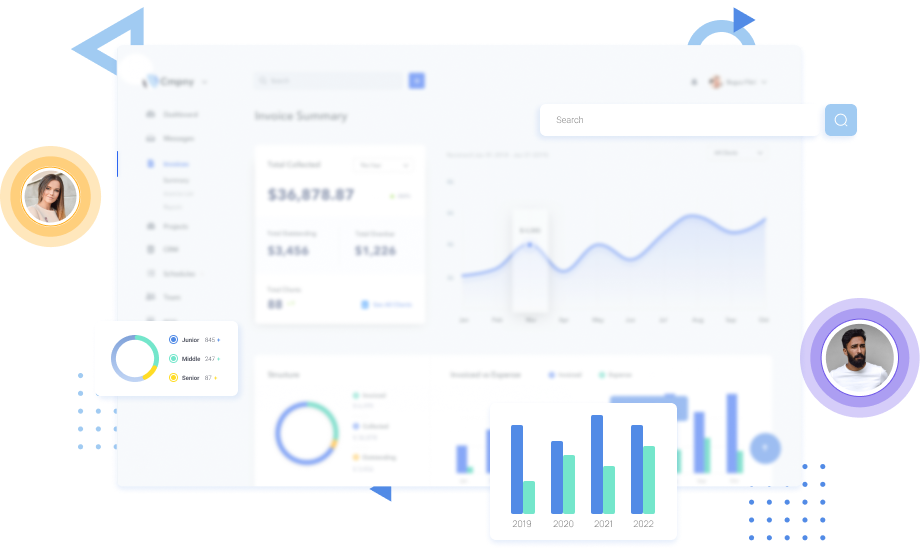
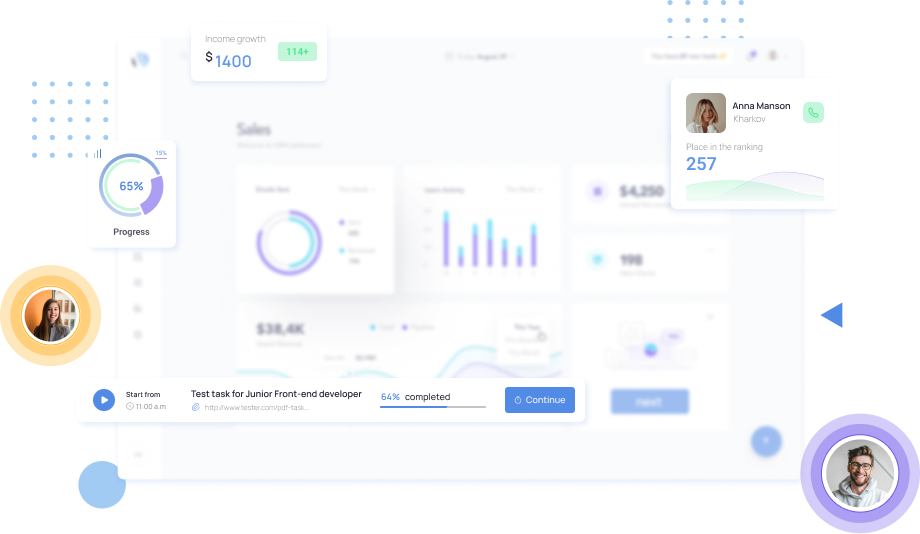
add new windows and css-animation on windows

diff --git a/src/components/view/Employer.vue b/src/components/view/Employer.vue
@@ -24,10 +24,15 @@
             </div>
             <div class="header__animation">
               <div class="header__soonimage d-none d-md-block">
+                <div class = "count">
+                  <div class = "circles" id = "n1"></div>
+                  <div class = "circles" id = "n2"></div>
+                  <div class = "circles" id = "n3"></div>
+                </div>
                 <picture>
-                  <source :srcset="require('../../assets/images/main_image.webp')" type="image/webp">
-                  <source :srcset="require('../../assets/images/main_image.png')" type="image/jpeg">
-                  <img width="920" height="534" :src="require('../../assets/images/main_image.png')" alt="soon image">
+                  <source :srcset="require('../../assets/images/main_image_employer.webp')" type="image/webp">
+                  <source :srcset="require('../../assets/images/main_image_employer.png')" type="image/jpeg">
+                  <img width="920" height="534" :src="require('../../assets/images/main_image_employer.png')" alt="soon image">
                 </picture>
               </div>
             </div>
@@ -149,34 +154,29 @@ export default {
     accordeonImage() {
       return [
         {
-            webpSourse: require("@/assets/images/content/webp/image_4.webp"),
-            pngSourse: require("@/assets/images/content/image_4.png"),
-            image: require("@/assets/images/content/image_4.png"),
+            webpSourse: require("@/assets/images/content/webp/employer_slider_1.webp"),
+            pngSourse: require("@/assets/images/content/employer_slider_1.png"),
+            image: require("@/assets/images/content/employer_slider_1.png"),
         },
         {
-            webpSourse: require("@/assets/images/content/webp/image_4.webp"),
-            pngSourse: require("@/assets/images/content/image_4.png"),
-            image: require("@/assets/images/content/image_4.png"),
+            webpSourse: require("@/assets/images/content/webp/employer_slider_2.webp"),
+            pngSourse: require("@/assets/images/content/employer_slider_2.png"),
+            image: require("@/assets/images/content/employer_slider_2.png"),
         },
         {
-            webpSourse: require("@/assets/images/content/webp/image_4.webp"),
-            pngSourse: require("@/assets/images/content/image_4.png"),
-            image: require("@/assets/images/content/image_4.png"),
+            webpSourse: require("@/assets/images/content/webp/employer_slider_3.webp"),
+            pngSourse: require("@/assets/images/content/employer_slider_3.png"),
+            image: require("@/assets/images/content/employer_slider_3.png"),
         },
         {
-            webpSourse: require("@/assets/images/content/webp/image_4.webp"),
-            pngSourse: require("@/assets/images/content/image_4.png"),
-            image: require("@/assets/images/content/image_4.png"),
+            webpSourse: require("@/assets/images/content/webp/employer_slider_4.webp"),
+            pngSourse: require("@/assets/images/content/employer_slider_4.png"),
+            image: require("@/assets/images/content/employer_slider_4.png"),
         },
         {
-            webpSourse: require("@/assets/images/content/webp/image_4.webp"),
-            pngSourse: require("@/assets/images/content/image_4.png"),
-            image: require("@/assets/images/content/image_4.png"),
-        },
-        {
-            webpSourse: require("@/assets/images/content/webp/image_4.webp"),
-            pngSourse: require("@/assets/images/content/image_4.png"),
-            image: require("@/assets/images/content/image_4.png"),
+            webpSourse: require("@/assets/images/content/webp/employer_slider_5.webp"),
+            pngSourse: require("@/assets/images/content/employer_slider_5.png"),
+            image: require("@/assets/images/content/employer_slider_5.png"),
         },
       ]
     },
@@ -185,37 +185,38 @@ export default {
         {
           title: this.$t('accordionSubTitleA'),
           body: this.$t('accordionSubTxtA'),
-          webpSourse: require("@/assets/images/content/webp/image_4.webp"),
-          pngSourse: require("@/assets/images/content/image_4.png"),
-          image: require("@/assets/images/content/image_4.png"),
+          webpSourse: require("@/assets/images/content/webp/employer_slider_1.webp"),
+          pngSourse: require("@/assets/images/content/employer_slider_1.png"),
+          image: require("@/assets/images/content/employer_slider_1.png"),
         },
         {
           title: this.$t('accordionSubTitleB'),
           body: this.$t('accordionSubTxtB'),
-          webpSourse: require("@/assets/images/content/webp/image_4.webp"),
-          pngSourse: require("@/assets/images/content/image_4.png"),
-          image: require("@/assets/images/content/image_4.png"),
+          webpSourse: require("@/assets/images/content/webp/employer_slider_2.webp"),
+          pngSourse: require("@/assets/images/content/employer_slider_2.png"),
+          image: require("@/assets/images/content/employer_slider_2.png"),
         },
         {
           title: this.$t('accordionSubTitleC'),
           body: this.$t('accordionSubTxtC'),
-          webpSourse: require("@/assets/images/content/webp/image_4.webp"),
-          pngSourse: require("@/assets/images/content/image_4.png"),
-          image: require("@/assets/images/content/image_4.png"),
+          webpSourse: require("@/assets/images/content/webp/employer_slider_3.webp"),
+          pngSourse: require("@/assets/images/content/employer_slider_3.png"),
+          image: require("@/assets/images/content/employer_slider_3.png"),
         },
         {
           title: this.$t('accordionSubTitleD'),
           body: this.$t('accordionSubTxtD'),
-          webpSourse: require("@/assets/images/content/webp/image_4.webp"),
-          pngSourse: require("@/assets/images/content/image_4.png"),
-          image: require("@/assets/images/content/image_4.png"),
+          webpSourse: require("@/assets/images/content/webp/employer_slider_4.webp"),
+          pngSourse: require("@/assets/images/content/employer_slider_4.png"),
+          image: require("@/assets/images/content/employer_slider_4.png"),
         },
         {
           title: this.$t('accordionSubTitleE'),
           body: this.$t('accordionSubTxtE'),
-          webpSourse: require("@/assets/images/content/webp/image_4.webp"),
-          pngSourse: require("@/assets/images/content/image_4.png"),
-          image: require("@/assets/images/content/image_4.png"),
+          webpSourse: require("@/assets/images/content/webp/employer_slider_5.webp"),
+          pngSourse: require("@/assets/images/content/employer_slider_5.png"),
+          image: require("@/assets/images/content/employer_slider_5.png"),
+          class: 'hidden'
         }
       ]
     },

diff --git a/src/components/view/Applicant.vue b/src/components/view/Applicant.vue
@@ -149,34 +149,29 @@ export default {
 	accordeonImage() {
       return [
 		{
-            webpSourse: require("@/assets/images/content/webp/image_4.webp"),
-            pngSourse: require("@/assets/images/content/image_4.png"),
-            image: require("@/assets/images/content/image_4.png"),
+            webpSourse: require("@/assets/images/content/webp/slider_1.webp"),
+            pngSourse: require("@/assets/images/content/slider_1.png"),
+            image: require("@/assets/images/content/slider_1.png"),
         },
         {
-            webpSourse: require("@/assets/images/content/webp/image_4.webp"),
-            pngSourse: require("@/assets/images/content/image_4.png"),
-            image: require("@/assets/images/content/image_4.png"),
+            webpSourse: require("@/assets/images/content/webp/slider_2.webp"),
+            pngSourse: require("@/assets/images/content/slider_2.png"),
+            image: require("@/assets/images/content/slider_2.png"),
         },
         {
-            webpSourse: require("@/assets/images/content/webp/image_4.webp"),
-            pngSourse: require("@/assets/images/content/image_4.png"),
-            image: require("@/assets/images/content/image_4.png"),
+            webpSourse: require("@/assets/images/content/webp/slider_3.webp"),
+            pngSourse: require("@/assets/images/content/slider_3.png"),
+            image: require("@/assets/images/content/slider_3.png"),
         },
         {
-            webpSourse: require("@/assets/images/content/webp/image_4.webp"),
-            pngSourse: require("@/assets/images/content/image_4.png"),
-            image: require("@/assets/images/content/image_4.png"),
+            webpSourse: require("@/assets/images/content/webp/slider_4.webp"),
+            pngSourse: require("@/assets/images/content/slider_4.png"),
+            image: require("@/assets/images/content/slider_4.png"),
         },
         {
-            webpSourse: require("@/assets/images/content/webp/image_4.webp"),
-            pngSourse: require("@/assets/images/content/image_4.png"),
-            image: require("@/assets/images/content/image_4.png"),
-        },
-        {
-            webpSourse: require("@/assets/images/content/webp/image_4.webp"),
-            pngSourse: require("@/assets/images/content/image_4.png"),
-            image: require("@/assets/images/content/image_4.png"),
+            webpSourse: require("@/assets/images/content/webp/slider_5.webp"),
+            pngSourse: require("@/assets/images/content/slider_5.png"),
+            image: require("@/assets/images/content/slider_5.png"),
         },
       ]
 	},
@@ -185,37 +180,38 @@ export default {
         {
           title: this.$t('applicationAccordionSubTitleA'),
           body: this.$t('applicationAccordionSubTxtA'),
-          webpSourse: require("@/assets/images/content/webp/image_4.webp"),
-          pngSourse: require("@/assets/images/content/image_4.png"),
-          image: require("@/assets/images/content/image_4.png"),
+          webpSourse: require("@/assets/images/content/webp/slider_1.webp"),
+          pngSourse: require("@/assets/images/content/slider_1.png"),
+          image: require("@/assets/images/content/slider_1.png"),
         },
         {
           title: this.$t('applicationAccordionSubTitleB'),
           body: this.$t('applicationAccordionSubTxtB'),
-          webpSourse: require("@/assets/images/content/webp/image_4.webp"),
-          pngSourse: require("@/assets/images/content/image_4.png"),
-          image: require("@/assets/images/content/image_4.png"),
+          webpSourse: require("@/assets/images/content/webp/slider_2.webp"),
+          pngSourse: require("@/assets/images/content/slider_2.png"),
+          image: require("@/assets/images/content/slider_2.png"),
         },
         {
           title: this.$t('applicationAccordionSubTitleC'),
           body: this.$t('applicationAccordionSubTxtC'),
-          webpSourse: require("@/assets/images/content/webp/image_4.webp"),
-          pngSourse: require("@/assets/images/content/image_4.png"),
-          image: require("@/assets/images/content/image_4.png"),
+          webpSourse: require("@/assets/images/content/webp/slider_3.webp"),
+          pngSourse: require("@/assets/images/content/slider_3.png"),
+          image: require("@/assets/images/content/slider_3.png"),
         },
         {
           title: this.$t('applicationAccordionSubTitleD'),
           body: this.$t('applicationAccordionSubTxtD'),
-          webpSourse: require("@/assets/images/content/webp/image_4.webp"),
-          pngSourse: require("@/assets/images/content/image_4.png"),
-          image: require("@/assets/images/content/image_4.png"),
+          webpSourse: require("@/assets/images/content/webp/slider_4.webp"),
+          pngSourse: require("@/assets/images/content/slider_4.png"),
+          image: require("@/assets/images/content/slider_4.png"),
         },
         {
           title: this.$t('applicationAccordionSubTitleE'),
           body: this.$t('applicationAccordionSubTxtE'),
-          webpSourse: require("@/assets/images/content/webp/image_4.webp"),
-          pngSourse: require("@/assets/images/content/image_4.png"),
-          image: require("@/assets/images/content/image_4.png"),
+          webpSourse: require("@/assets/images/content/webp/slider_5.webp"),
+          pngSourse: require("@/assets/images/content/slider_5.png"),
+          image: require("@/assets/images/content/slider_5.png"),
+          class: 'hidden'
         }
       ]
     },

diff --git a/src/components/Accordion.vue b/src/components/Accordion.vue
@@ -4,12 +4,17 @@
 				<div class="row accardion__container">
 					<div class="col-12 col-md-6 accardion__items d-none d-lg-block">
 						<div 
-                          class="accardion__image"
-                          @click="open(index)"
-                          :class="{active: index === activeItem}"
-                          v-for="(item, index) in accordeonImage"
-                          :key="index"
-                        >
+              class="accardion__image"
+              @click="open(index)"
+              :class="{active: index === activeItem}"
+              v-for="(item, index) in accordeonImage"
+              :key="index"
+            >
+            <div class="count">
+							<div class="circles" id="n1"></div>
+							<div class="circles" id="n2"></div>
+							<div class="circles" id="n3"></div>
+						</div>
 							<picture>
 								<source :srcset="item.webpSourse" type="image/webp">
 								<source :srcset="item.pngSourse">
@@ -21,31 +26,35 @@
 					<div class="col-12 col-lg-6">
 						<div class="accardion__inner">
 							<h3 class="accardion__title main-title">
-                                <!-- {{$t('accordionTitle')}} -->
-                                <slot name="title"></slot>
-                            </h3>
+                <slot name="title"></slot>
+              </h3>
 							<div class="accardion__wrapper">
 
 								<div 
-                                  tabindex="0"
-                                  class="accardion__elem"
-                                  @click="open(index)"
-                                  @keyup.space="open(index)"
-                                  :class="{active: index === activeItem}"
-                                  v-for="(item, index) in stepList"
-                                  :key="index"
-                                >
+                  tabindex="0"
+                  class="accardion__elem"
+                  @click="open(index)"
+                  @keyup.space="open(index)"
+                  :class="{active: index === activeItem}"
+                  v-for="(item, index) in stepList"
+                  :key="index"
+                >
 									<h3 class="accardion__elem-title"> {{ item.title }} </h3>
 									<p class="accardion__elem-text">
 										{{ item.body }}
 									</p>
-									<p class="d-none d-md-block d-lg-none">
+									<div class="d-none d-md-block d-lg-none accardion__elem-text-img">
+                    <div class="count" :class="item.class">
+                      <div class="circles" id="n1"></div>
+                      <div class="circles" id="n2"></div>
+                      <div class="circles" id="n3"></div>
+                    </div>
 										<picture>
 											<source :srcset="item.webpSourse" type="image/webp">
 											<source :srcset="item.pngSourse" type="image/jpeg">
 											<img width="560" height="382" :src="item.image" alt="soon image">
 										</picture>
-									</p>
+									</div>
 								</div>
 
 							</div>

diff --git a/src/assets/styles/_accardion.scss b/src/assets/styles/_accardion.scss
@@ -27,11 +27,8 @@
 
     &__image {
         max-width: 540px;
-        // display: none;
-        // height: 0;
         opacity: 0;
         position: absolute;
-        // left: -2115px;
         left: 15px;
         top: 50%;
         transform: translateY(-50%);
@@ -40,13 +37,14 @@
             max-width: 450px;
         }
         @media screen and (min-width: 1200px) {
-            max-width: 531px;
+            max-width: 540px;
         }
         &.active {
-            // display: block;
-            // left: 15px;
             opacity: 1;
         }
+    }
+    &__image:last-child .count{
+        display: none;
     }
 
     &__image-item {
@@ -122,18 +120,23 @@
             }
         }
         &.active .accardion__elem-text {
-            // display: block;
             height: 100%;
             transition: all 0.4s;
-            &+ p {
-                height: 100%;
-                max-width: 560px;
-                margin: 0 auto;
-                padding-bottom: 20px;
-                img {
-                    width: 100%;
-                    height: auto;
-                }
+        }
+        &.active .accardion__elem-text-img {
+            height: 100%;
+            max-width: 560px;
+            margin: 0 auto;
+            padding-bottom: 20px;
+            .count {
+                display: block;
+            }
+            .hidden {
+                display: none;
+            }
+            img {
+                width: 100%;
+                height: auto;
             }
         }
     }
@@ -150,14 +153,17 @@
     &__elem-text {
         padding-bottom: 2px;
         line-height: 25px;
-        // display: none;
         height: 0;
         overflow: hidden;
-        &+ p {
+        &+ .accardion__elem-text-img {
+            position: relative;
             padding-top: 15px;
             text-align: center;
             height: 0;
             overflow: hidden;
+            .count {
+                display: none;
+            }
         }
     }
 }
